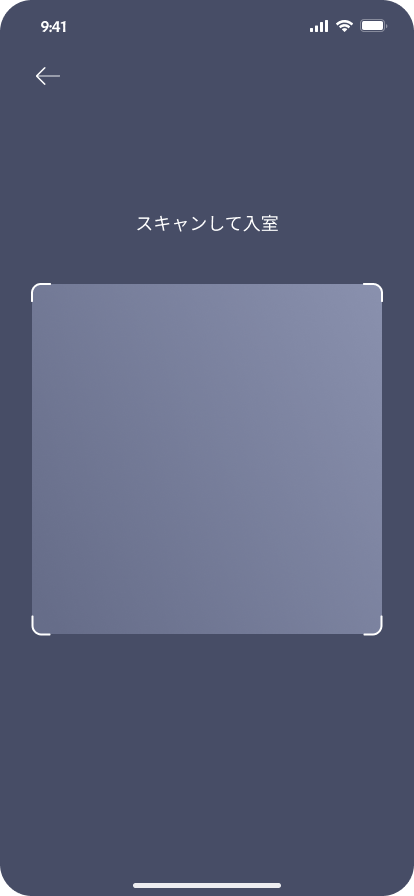
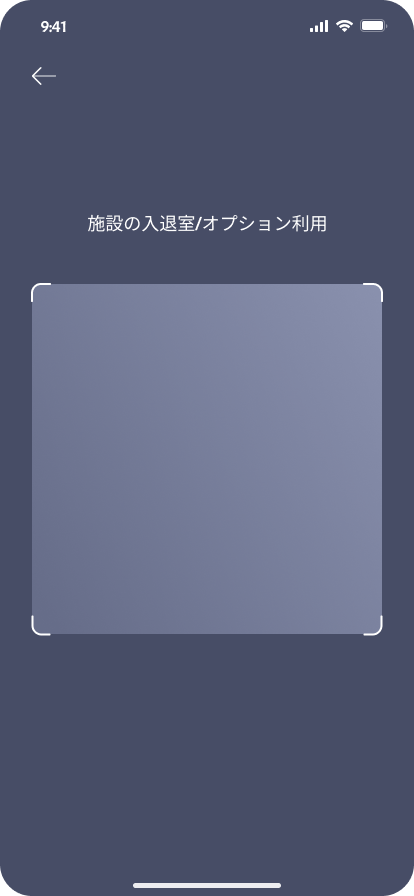
update checkin spec

diff --git a/107-vn.md b/107-vn.md
@@ -1,6 +1,6 @@
 # 【MB】 **Check-in**
 
-- User có thể quét mã QR của từng dịch vụ hoặc dùng app `Gate Keeper` đọc barcode để sử dụng các dịch vụ mà Pocket cung cấp. Có các loại dịch vụ chính như sau:
+- User có thể quét mã QR của từng dịch vụ để sử dụng các dịch vụ mà Pocket cung cấp. Có các loại dịch vụ chính như sau:
     - Check-in
     - Phòng thay đồ
     - Nước uống
@@ -21,20 +21,21 @@
 - Khi vào màn hình này thì sẽ tự động quét mã QR.
 - Nếu user quét mã QR không hợp lệ thì sẽ hiển thị popup lỗi. Tap nào nút `戻る` thì sẽ quay lại màn hình **Quét mã QR**
 - Nếu user chưa đến ngày sử dụng dịch vụ quét mã QR hợp lệ thì sẽ hiển thị popup lỗi. Tap nào nút `戻る` thì sẽ quay lại màn hình **Quét mã QR**
-- Sau khi quét mã QR thành công, sẽ redirect qua màn hình **Xác nhận sử dụng dịch vụ** . Tuỳ vào từng mã QR mà sẽ redirect qua các màn hình khác nhau. Có 4 loại mã QR như sau:
-    - Cửa vào - Check-in
-    - Tebura- Cửa phòng thay đồ
+- Sau khi quét mã QR thành công, sẽ redirect qua màn hình **Xác nhận sử dụng dịch vụ** . Tuỳ vào từng mã QR mà sẽ redirect qua các màn hình khác nhau. Có 5 loại mã QR như sau:
+    - Main door-cửa vào (Check-in)
+    - Tebura-cửa vào (Phòng thay đồ)
+    - Tebura-cửa ra (Phòng thay đồ)
     - Khoá nước
-    - Cửa ra- Check out
-
+    - Main door-cửa ra (Check out)
+    
 ### Error List
 
 #### 画面エラー（Screen Error）
 
 - Lỗi mã QR không hợp lệ: `QRコードが無効です`
-- Lỗi user chưa đến ngày sử dụng dịch vụ quét mã QR: Hiển thị lỗi từ bên API trả về. Message lỗi: "利用開始日より前は利用できません"
+- Lỗi user chưa đến ngày sử dụng dịch vụ quét mã QR: Hiển thị lỗi từ bên API trả về. Message lỗi: `利用開始日より前は利用できません`
 
-## Màn hình **Xác nhận sử dụng dịch vụ - Cửa vào**
+## Màn hình **Xác nhận sử dụng dịch vụ - Main door-cửa vào**
 
 ![nf](image/jp/mb/104check-in/entry-flow.png)
 
@@ -85,8 +86,9 @@
 
 - Khi tap nút này thì sẽ xử lí các logic theo thứ tự như sau: 
     - Check kết nối của smart-lock xem có thể mở khoá được hay không. Nếu lỗi kết nối thì redirect qua màn hình **Xử lí lỗi** .
-    - Nếu smart-lock kết nối ok thì bắt đầu charge tiền. Nếu charge tiền không thành công thì redirect qua màn hình **Xử lí lỗi** . **Case 2 không cần xử lí này, check kết nối thành công thì mở khoá luôn**
-    - Nếu chare tiền thành công thì bắt đầu gọi API để mở khoá. Sau khi mở khoá thành công thì redirect qua màn hình **Tạo training menu** .　Tham khảo ở trang **Training menu** . Note: phần xử lí mở khoá bên team Pk sẽ làm.
+    - Nếu smart-lock kết nối ok thì bắt đầu gọi API để mở khoá. Sau khi user mở cửa thành công thì redirect qua màn hình **Tạo training menu** .　Tham khảo ở trang **Training menu** . 
+    - Trong khoảng thời gian mở khoá cho đến khi user mở cửa thành công thì sẽ hiển thị màn hình loading (thời gian chờ tối đa 7s). Trong vòng 7s nếu user mở cửa thành công thì sẽ redirect qua màn hình **Tạo training menu** mà không cần chờ hết 7s. Tín hiệu user mở cửa thành công sẽ nhận từ bên IoT
+    - Sau khi user mở cửa thành công sẽ bắt đầu xử lí charge tiền. **Case 2,4,5 không cần xử lí charge tiền**
 - Có 1 case đặc biệt như sau: nếu user ở màn hình này một thời gian mà không bấm nút mở khoá. Đến lúc mà user bấm nút mở khoá, số tiền cần trả đã thay đổi thì vẫn lấy số tiền đang hiển thị trên màn hình để charge cho user. 
 
 ##### 戻る `Button`
@@ -113,7 +115,6 @@
 
 - Hiển thị error mesage. Có 2 pattern như sau: 
     - Lỗi kết nối smart-lock：`内部サーバーエラー`
-    - Lỗi thanh toán：Hiển thị thông báo lỗi Stripe từ kết quả APi trả về
 
 ##### 再試行する　`Button`
 
@@ -124,11 +125,10 @@
 #### Screen Error
 
 - Lỗi kết nối smart-lock：`内部サーバーエラー`
-- Lỗi thanh toán：Hiển thị thông báo lỗi Stripe từ kết quả APi trả về
 
-## Màn hình **Xác nhận sử dụng dịch vụ - Tebura**
+## Màn hình **Xác nhận sử dụng dịch vụ - Tebura-cửa vào**
 
-![nf](image/jp/mb/104check-in/tebura-flow.png)
+![nf](image/jp/mb/104check-in/tebura-enter-flow.png)
 
 - Ở màn hình này có 2 patter như sau:
     - Case １： User đã đăng kí option Tebura
@@ -145,21 +145,41 @@
     - `松山姫原店`：Tên phòng gym
     - `500`： Số tiền charge nếu sử dụng. Trong trường hợp user đã charge thành công trước đó, nếu trong vòng 4h thì hiển thị là `0`
 
-##### Change plan `Button`
-
-![nf](image/jp/mb/104check-in/change-tebura-plan.png)
-
-- Chỉ có ở case 2
-- Tap vào nút này sẽ redirect qua màn hình **プランの変更** . Tham khảo ở trang **画面ホーム＆メニュー（Home Menu)** 
-
 ##### 使用する `Button`
 
 - Khi tap nút này thì sẽ xử lí các logic theo thứ tự như sau:   
     - Check kết nối của smart-lock xem có thể mở khoá được hay không. Nếu lỗi kết nối thì redirect qua màn hình **Xử lí lỗi** .
-    - Nếu smart-lock kết nối ok thì bắt đầu charge tiền. Nếu charge tiền không thành công thì redirect qua màn hình **Xử lí lỗi** . **Case 1 không cần xử lí này, check kết nối thành công thì mở khoá luôn**
-    - Nếu chare tiền thành công thì bắt đầu gọi API để mở khoá. Sau khi mở khoá thành công thì redirect qua màn hình thông báo đã mở khoá thành công
+    - Nếu smart-lock kết nối ok thì bắt đầu gọi API để mở khoá. Sau khi user mở cửa thành công thì redirect qua màn hình thông báo đã mở khoá thành công. Ở màn hình thông báo đã mở khoá thành công nếu tap nút `戻る` thì sẽ quay lại màn hình **Home** .
+    - Trong khoảng thời gian mở khoá cho đến khi user mở cửa thành công thì sẽ hiển thị màn hình loading (thời gian chờ tối đa 7s). Trong vòng 7s nếu user mở cửa thành công thì sẽ redirect qua màn hình thông báo đã mở khoá thành công mà không cần chờ hết 7s. Tín hiệu user mở cửa thành công sẽ nhận từ bên IoT
+    - Sau khi user mở cửa thành công sẽ bắt đầu xử lí charge tiền. **Case 1, hoặc mở cửa lại trong vòng 4h không cần xử lí charge tiền**
 
 ##### 戻る `Button`
+
+- Tap vào nút này thì quay lại màn hình **Home** .
+
+### Error List
+
+`None`
+
+## Màn hình **Xác nhận sử dụng dịch vụ - Tebura-cửa ra**
+
+![nf](image/jp/mb/104check-in/tebura-exit-flow.png)
+
+### Định nghĩa các thành phần có Action
+
+##### Xác nhận thông tin mơ khoá　`Block`
+
+- API data：
+    - `松山姫原店`：Tên phòng gym
+  
+##### 退出する `Button`
+
+- Khi tap nút này thì sẽ xử lí các logic theo thứ tự như sau:   
+    - Check kết nối của smart-lock xem có thể mở khoá được hay không. Nếu lỗi kết nối thì redirect qua màn hình **Xử lí lỗi** .
+    - Nếu smart-lock kết nối ok thì bắt đầu gọi API để mở khoá. Sau khi mở khoá thành công thì redirect qua màn hình thông báo đã mở khoá thành công. Ở màn hình thông báo đã mở khoá thành công nếu tap nút `戻る` thì sẽ quay lại màn hình **Home** .
+    - Trong khoảng thời gian mở khoá cho đến khi user mở cửa thành công thì sẽ hiển thị màn hình loading (thời gian chờ tối đa 7s). Trong vòng 7s nếu user mở cửa thành công thì sẽ redirect qua màn hình thông báo đã mở khoá thành công mà không cần chờ hết 7s. Tín hiệu user mở cửa thành công sẽ nhận từ bên IoT
+
+##### 戻る　`Button`
 
 - Tap vào nút này thì quay lại màn hình **Home** .
 
@@ -187,7 +207,8 @@
 - Chỉ có ở case 1
 - Khi tap nút này thì sẽ xử lí các logic theo thứ tự như sau:
     - Check kết nối của khoá nước xem có thể mở khoá được hay không. Nếu lỗi kết nối thì redirect qua màn hình **Xử lí lỗi** .
-    - Nếu khoá nước kết nối ok thì bắt đầu gọi API để mở khoá. Sau khi mở khoá thành công thì redirect qua màn hình thông báo đã mở khoá thành công
+    - Nếu khoá nước kết nối ok thì bắt đầu gọi API để mở khoá. Sau khi mở khoá thành công thì redirect qua màn hình thông báo đã mở khoá thành công. Ở màn hình thông báo đã mở khoá thành công nếu tap nút `戻る` thì sẽ quay lại màn hình **Home** .
+    
 
 ##### 戻る `Button`
 
@@ -208,11 +229,12 @@
 - API data：
     - `松山姫原店`：Tên phòng gym
   
-##### 使用する `Button`
+##### 退出する `Button`
 
 - Khi tap nút này thì sẽ xử lí các logic theo thứ tự như sau:   
     - Check kết nối của smart-lock xem có thể mở khoá được hay không. Nếu lỗi kết nối thì redirect qua màn hình **Xử lí lỗi** .
-    - Nếu smart-lock kết nối ok thì bắt đầu gọi API để mở khoá. Sau khi mở khoá thành công thì redirect qua màn hình thông báo đã mở khoá thành công
+    - Nếu smart-lock kết nối ok thì bắt đầu gọi API để mở khoá. Sau khi mở khoá thành công thì redirect qua màn hình thông báo đã mở khoá thành công. Ở màn hình thông báo đã mở khoá thành công nếu tap nút `戻る` thì sẽ quay lại màn hình **Home** .
+    - Trong khoảng thời gian mở khoá cho đến khi user mở cửa thành công thì sẽ hiển thị màn hình loading (thời gian chờ tối đa 7s). Trong vòng 7s nếu user mở cửa thành công thì sẽ redirect qua màn hình thông báo đã mở khoá thành công mà không cần chờ hết 7s. Tín hiệu user mở cửa thành công sẽ nhận từ bên IoT
 
 ##### 戻る　`Button`
 

diff --git a/107-jp.md b/107-jp.md
@@ -1,6 +1,6 @@
 # 【MB】 **チェックイン**  `Check-in`  
 
-- ユーザーがQRコードをスキャンして、またバーコードでかざして、Pocketサービスを利用することができます：
+- ユーザーがQRコードをスキャンして、Pocketサービスを利用することができます：
     - チェックイン
     - 手ぶら会員オプション
     - 水素水
@@ -21,9 +21,10 @@
 - この画面に入ると、QRコードが自動的にスキャンされる
 - 無効なQRコードをスキャンしたら、エラーポップアップが表示される。`戻る`ボタンをタップしたら、 **QRコードスキャン** 画面に戻る。
 - 利用開始日より前のユーザーが、有効なQRコードをスキャンしたら、、エラーポップアップが表示される。`戻る`ボタンをタップしたら、 **QRコードスキャン** 画面に戻る。
-- QRコードを正常に読み取った後、 **サービス利用確認** 画面に移動される。QRコードに応じて異なる画面に移動される。QRコードは４つパータンがあります：
-    - 入れ口ーチェックイン
-    - 手ぶら
+- QRコードを正常に読み取った後、 **サービス利用確認** 画面に移動される。QRコードに応じて異なる画面に移動される。QRコードは５つパータンがあります：
+    - 玄関入口ーチェックイン
+    - 手ぶら入口
+    - 手ぶら出口
     - 水素水
     - 出口ーチェックアウト
 
@@ -85,8 +86,9 @@
 
 - このボタンをタップしたら、以下の処理順で処理される： 
     - スマートロックが接続を確認する処理。接続されない場合は、 **処理エラー** 画面に移動される。
-    - スマートロックの接続が確認出来たら、StripeにAPIを呼び出して、決済する。決済出来ない場合は、 **処理エラー** 画面に移動される。 **ケース２の場合は、決済不要**
-    - 決済出来たら、入れ口のスマートロックを解錠する。解錠できたら、 **トレーニングメーニュー作成** 画面に移動される。 **本日のトレーニングメーニュー** ページに参考。
+    - スマートロックの接続が確認出来たら、玄関入り口のドアを解錠する。解錠できたら、 **トレーニングメーニュー作成** 画面に移動される。 **本日のトレーニングメーニュー** ページに参考。
+    - 実際のユーザーがドアを開けるまで、最大 7 秒間、読み込み中のアイコンが表示されます。ユーザーがドアを開けた信号は IoT 側から受け取ります。
+    - ユーザーがドアを開けた後に、利用料金の引き落としが処理される。**ケース2、4、５の場合は、決済不要**
 - ユーザーがボタンをタップして、ドアを開けたが、支払う金額が現在のジム利用料金と異なる場合でも、画面に表示されている金額が請求される。
 
 ##### 戻る`ボタン`
@@ -113,7 +115,6 @@
 
 - エラーメッセージが表示する。２つパータンが想定する：
     - スマートロック切断エラー：`内部サーバーエラー`
-    - 決済出来ないエラー：APIに返されたエラーメッセージをそのまま表示する
 
 ##### 再試行する　`ボタン`
 
@@ -126,9 +127,9 @@
 - スマートロック切断エラー：`内部サーバーエラー`
 - 決済出来ないエラー：APIに返されたエラーメッセージをそのまま表示する
 
-## **サービス利用確認 (手ぶら)** 画面
+## **サービス利用確認 (手ぶら入口)** 画面
 
-![nf](image/jp/mb/104check-in/tebura-flow.png)
+![nf](image/jp/mb/104check-in/tebura-enter-flow.png)
 
 - 今画面にて、2つパータンが想定される。
     - ケース１：手ぶら会員オプション契約しているユーザー
@@ -144,19 +145,34 @@
 - API データ
     - `500`：理容料金。入金出来てから４時間以内の場合は、`0`で表示される
 
-##### プラン変更　`ボタン`
-
-![nf](image/jp/mb/104check-in/change-tebura-plan.png)
-
-- ケース２のみ
-- このボタンをタップしたら、 **プランの変更** 画面に移動される。 **画面ホーム＆メニュー（Home Menu)** ページ参考。
-
 ##### 使用する`ボタン`
 
 - このボタンをタップしたら、以下の処理順で処理される：   
     - スマートロックが接続を確認する処理。接続されない場合は、**処理エラー** 画面に移動される。
-    - スマートロックの接続が確認出来たら、StripeにAPIを呼び出して、決済する。決済出来ない場合は、**処理エラー** 画面に移動される。**ケース１の場合は、決済不要**
-    - 決済出来たら、手ぶらのスマートロックを解錠する。解錠できたら、解錠済み確認の画面に移動される。
+    -スマートロックの接続が確認出来たら、手ぶら入り口のドアを解錠する。解錠できたら、解錠済み確認の画面に移動される。解錠済み確認の画面に`戻る`ボタンをタップしたら、 **ホーム** の画面に戻る
+    - 実際のユーザーがドアを開けるまで、最大 7 秒間、読み込み中のアイコンが表示されます。ユーザーがドアを開けた信号は IoT 側から受け取ります。
+    - ユーザーがドアを開けた後に、利用料金の引き落としが処理される。**ケース１と４時間以内再入室の場合は、決済不要**
+
+##### 戻る`ボタン`
+
+- このボタンをタップしたら、 **ホーム**の画面に戻る
+
+### エラー一覧（Error List）
+
+`None`
+
+## **サービス利用確認 (手ぶら出口)** 画面
+
+![nf](image/jp/mb/104check-in/tebura-exit-flow.png)
+
+### 項目／イベント定義
+
+##### 退出する `ボタン`
+
+- このボタンをタップしたら、以下の処理順で処理される：   
+    - スマートロックが接続を確認する処理。接続されない場合は、 **処理エラー** 画面に移動される。
+    - スマートロックの接続が確認出来たら、手ぶら出口のドアを解錠する。解錠できたら、解錠済み確認の画面に移動される。解錠済み確認の画面に`戻る`ボタンをタップしたら、 **ホーム** の画面に戻る
+    - 実際のユーザーがドアを開けるまで、最大 7 秒間、読み込み中のアイコンが表示されます。ユーザーがドアを開けた信号は IoT 側から受け取ります。
 
 ##### 戻る`ボタン`
 
@@ -181,7 +197,7 @@
 - ケース1のみ
 - このボタンをタップしたら、以下の処理順で処理される：   
     - 水素デバイスが接続を確認する処理。接続されない場合は、 **処理エラー** 画面に移動される。
-    - 水素デバイスの接続が確認出来たら、水素のロックを解除する。ロックが解除できたら、解除できた確認の画面に移動される。
+    - 水素デバイスの接続が確認出来たら、水素のロックを解除する。ロックが解除できたら、解除できた確認の画面に移動される。解錠済み確認の画面に`戻る`ボタンをタップしたら、 **ホーム** の画面に戻る
 
 ##### 戻る`ボタン`
 
@@ -191,17 +207,18 @@
 
 `None`
 
-## **サービス利用確認 (出口)** 画面
+## **サービス利用確認 (玄関出口)** 画面
 
 ![nf](image/jp/mb/104check-in/exit-flow.png)
 
 ### 項目／イベント定義
 
-##### 使用する`ボタン`
+##### 退出する `ボタン`
 
 - このボタンをタップしたら、以下の処理順で処理される：   
     - スマートロックが接続を確認する処理。接続されない場合は、 **処理エラー** 画面に移動される。
-    - スマートロックの接続が確認出来たら、出口のスマートロックを解錠する。解錠できたら、解錠済み確認の画面に移動される。
+    - スマートロックの接続が確認出来たら、玄関出口のドアを解錠する。解錠できたら、解錠済み確認の画面に移動される。解錠済み確認の画面に`戻る`ボタンをタップしたら、 **ホーム** の画面に戻る
+    - 実際のユーザーがドアを開けるまで、最大 7 秒間、読み込み中のアイコンが表示されます。ユーザーがドアを開けた信号は IoT 側から受け取ります。
 
 ##### 戻る`ボタン`
 
